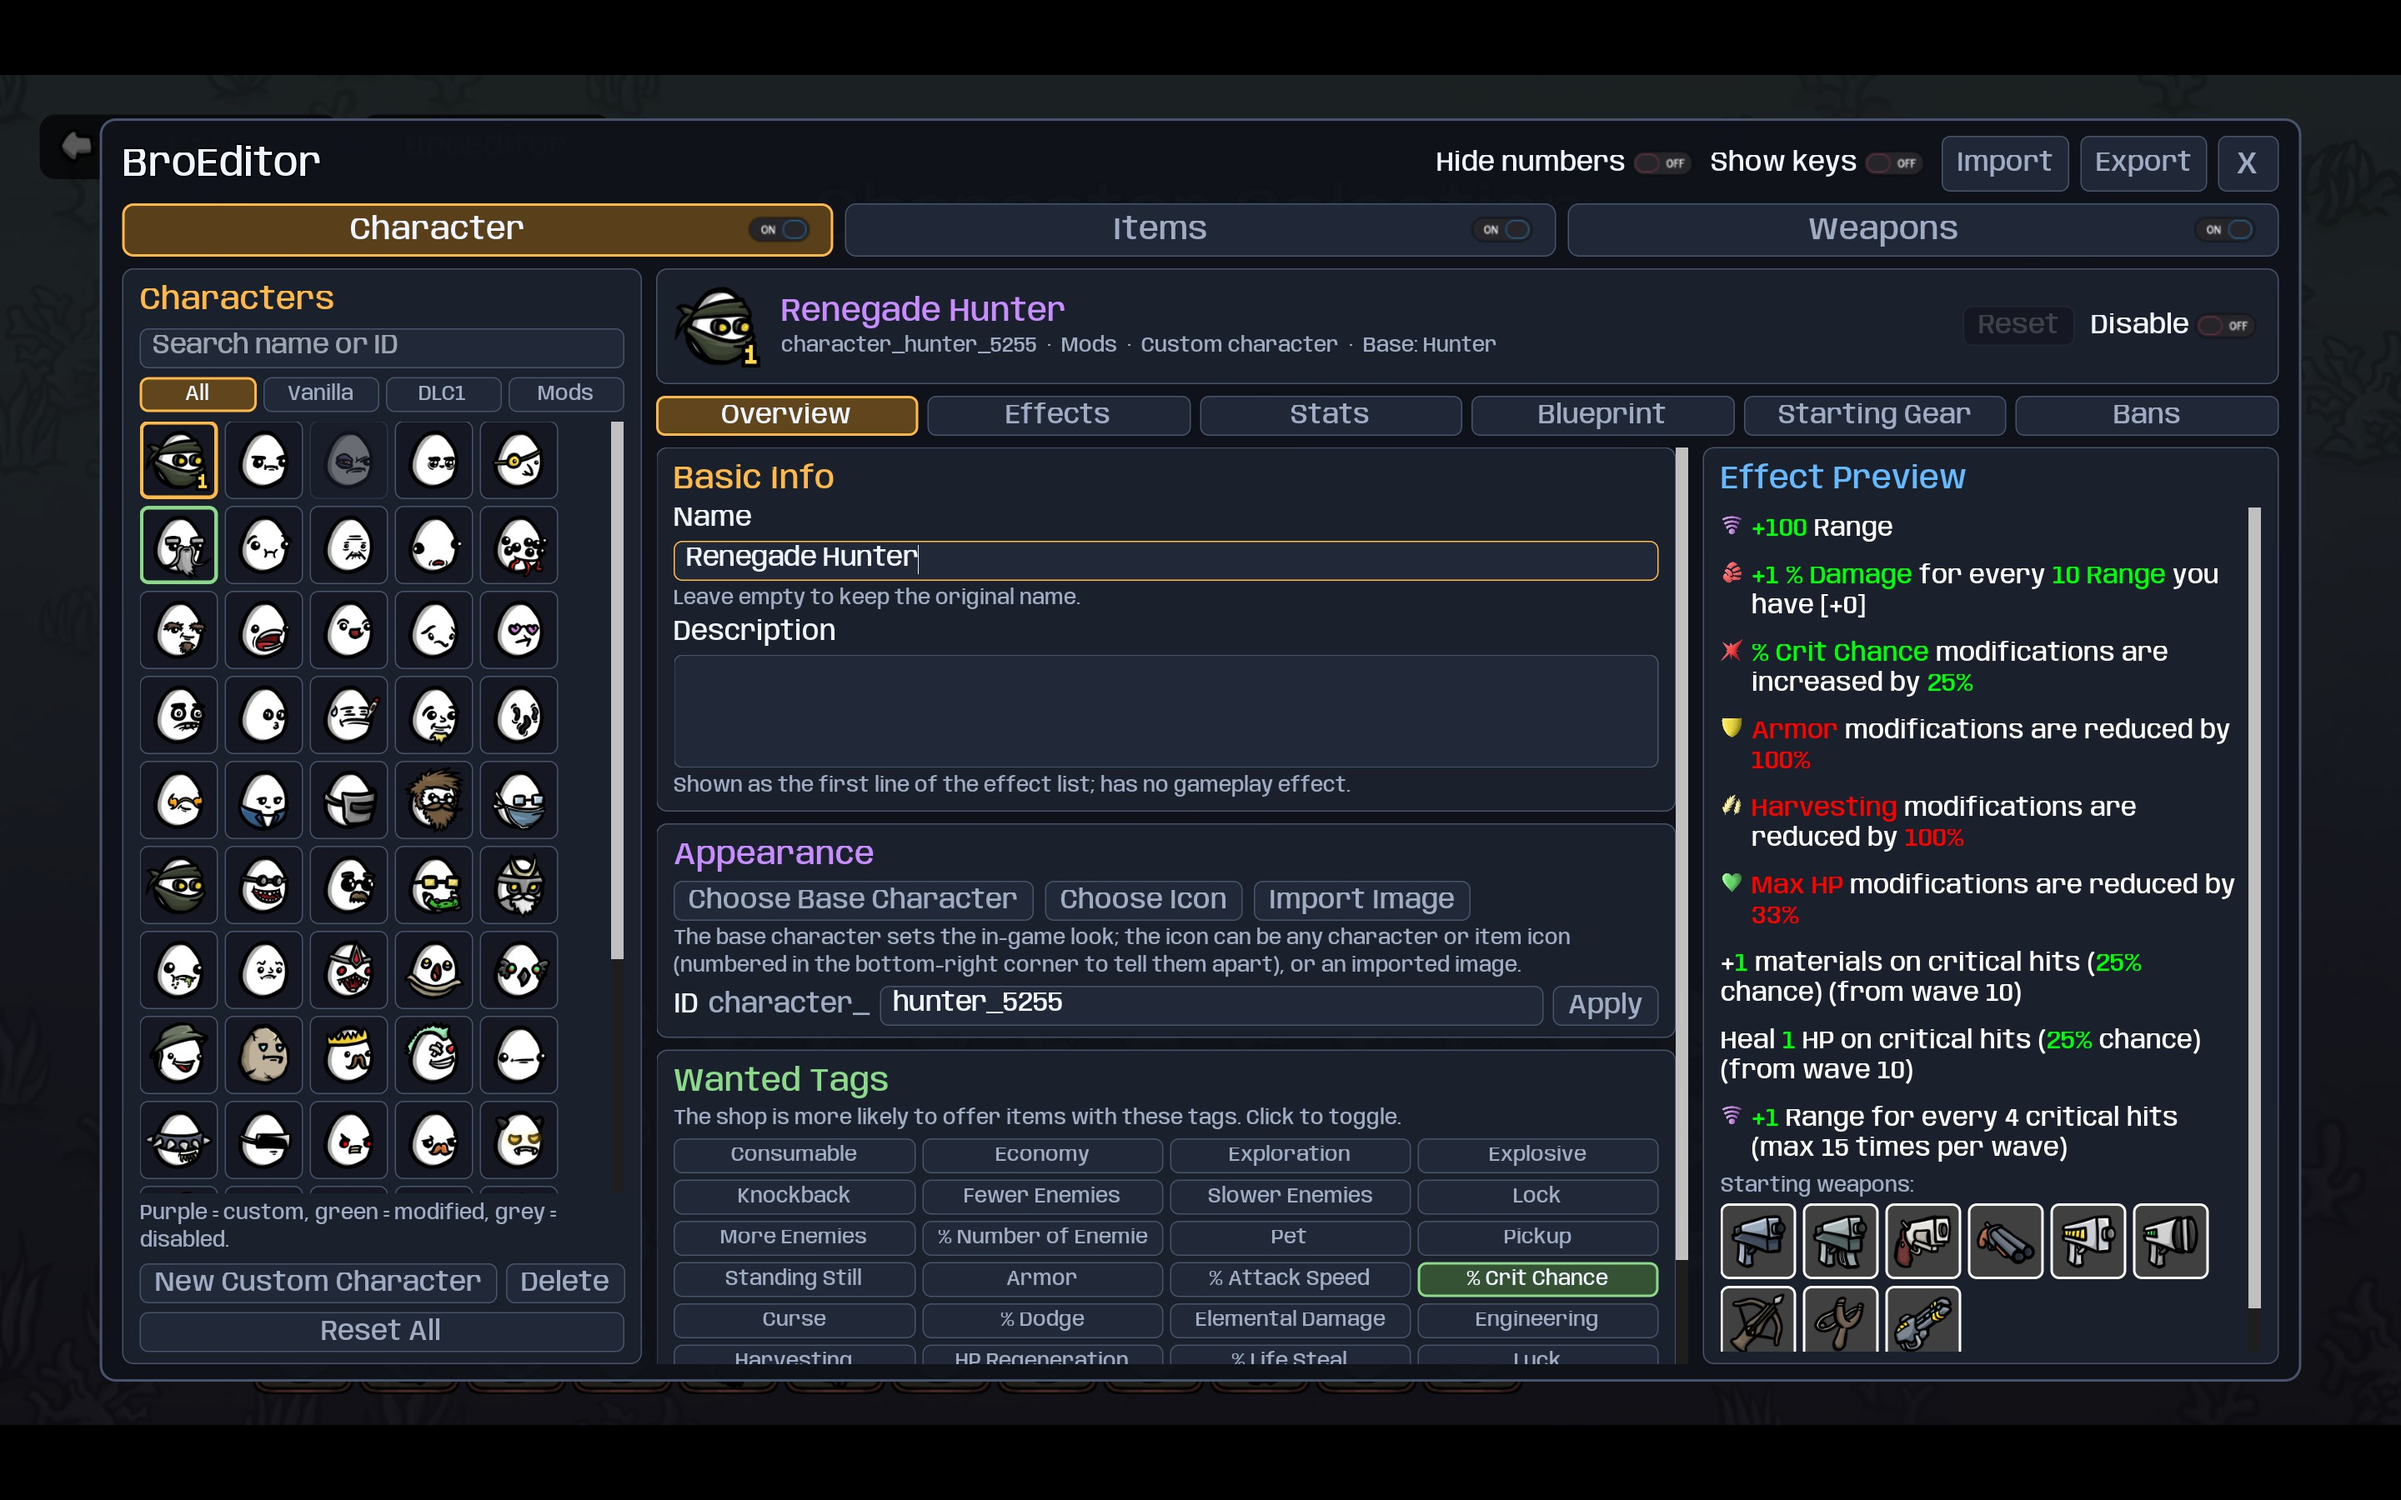
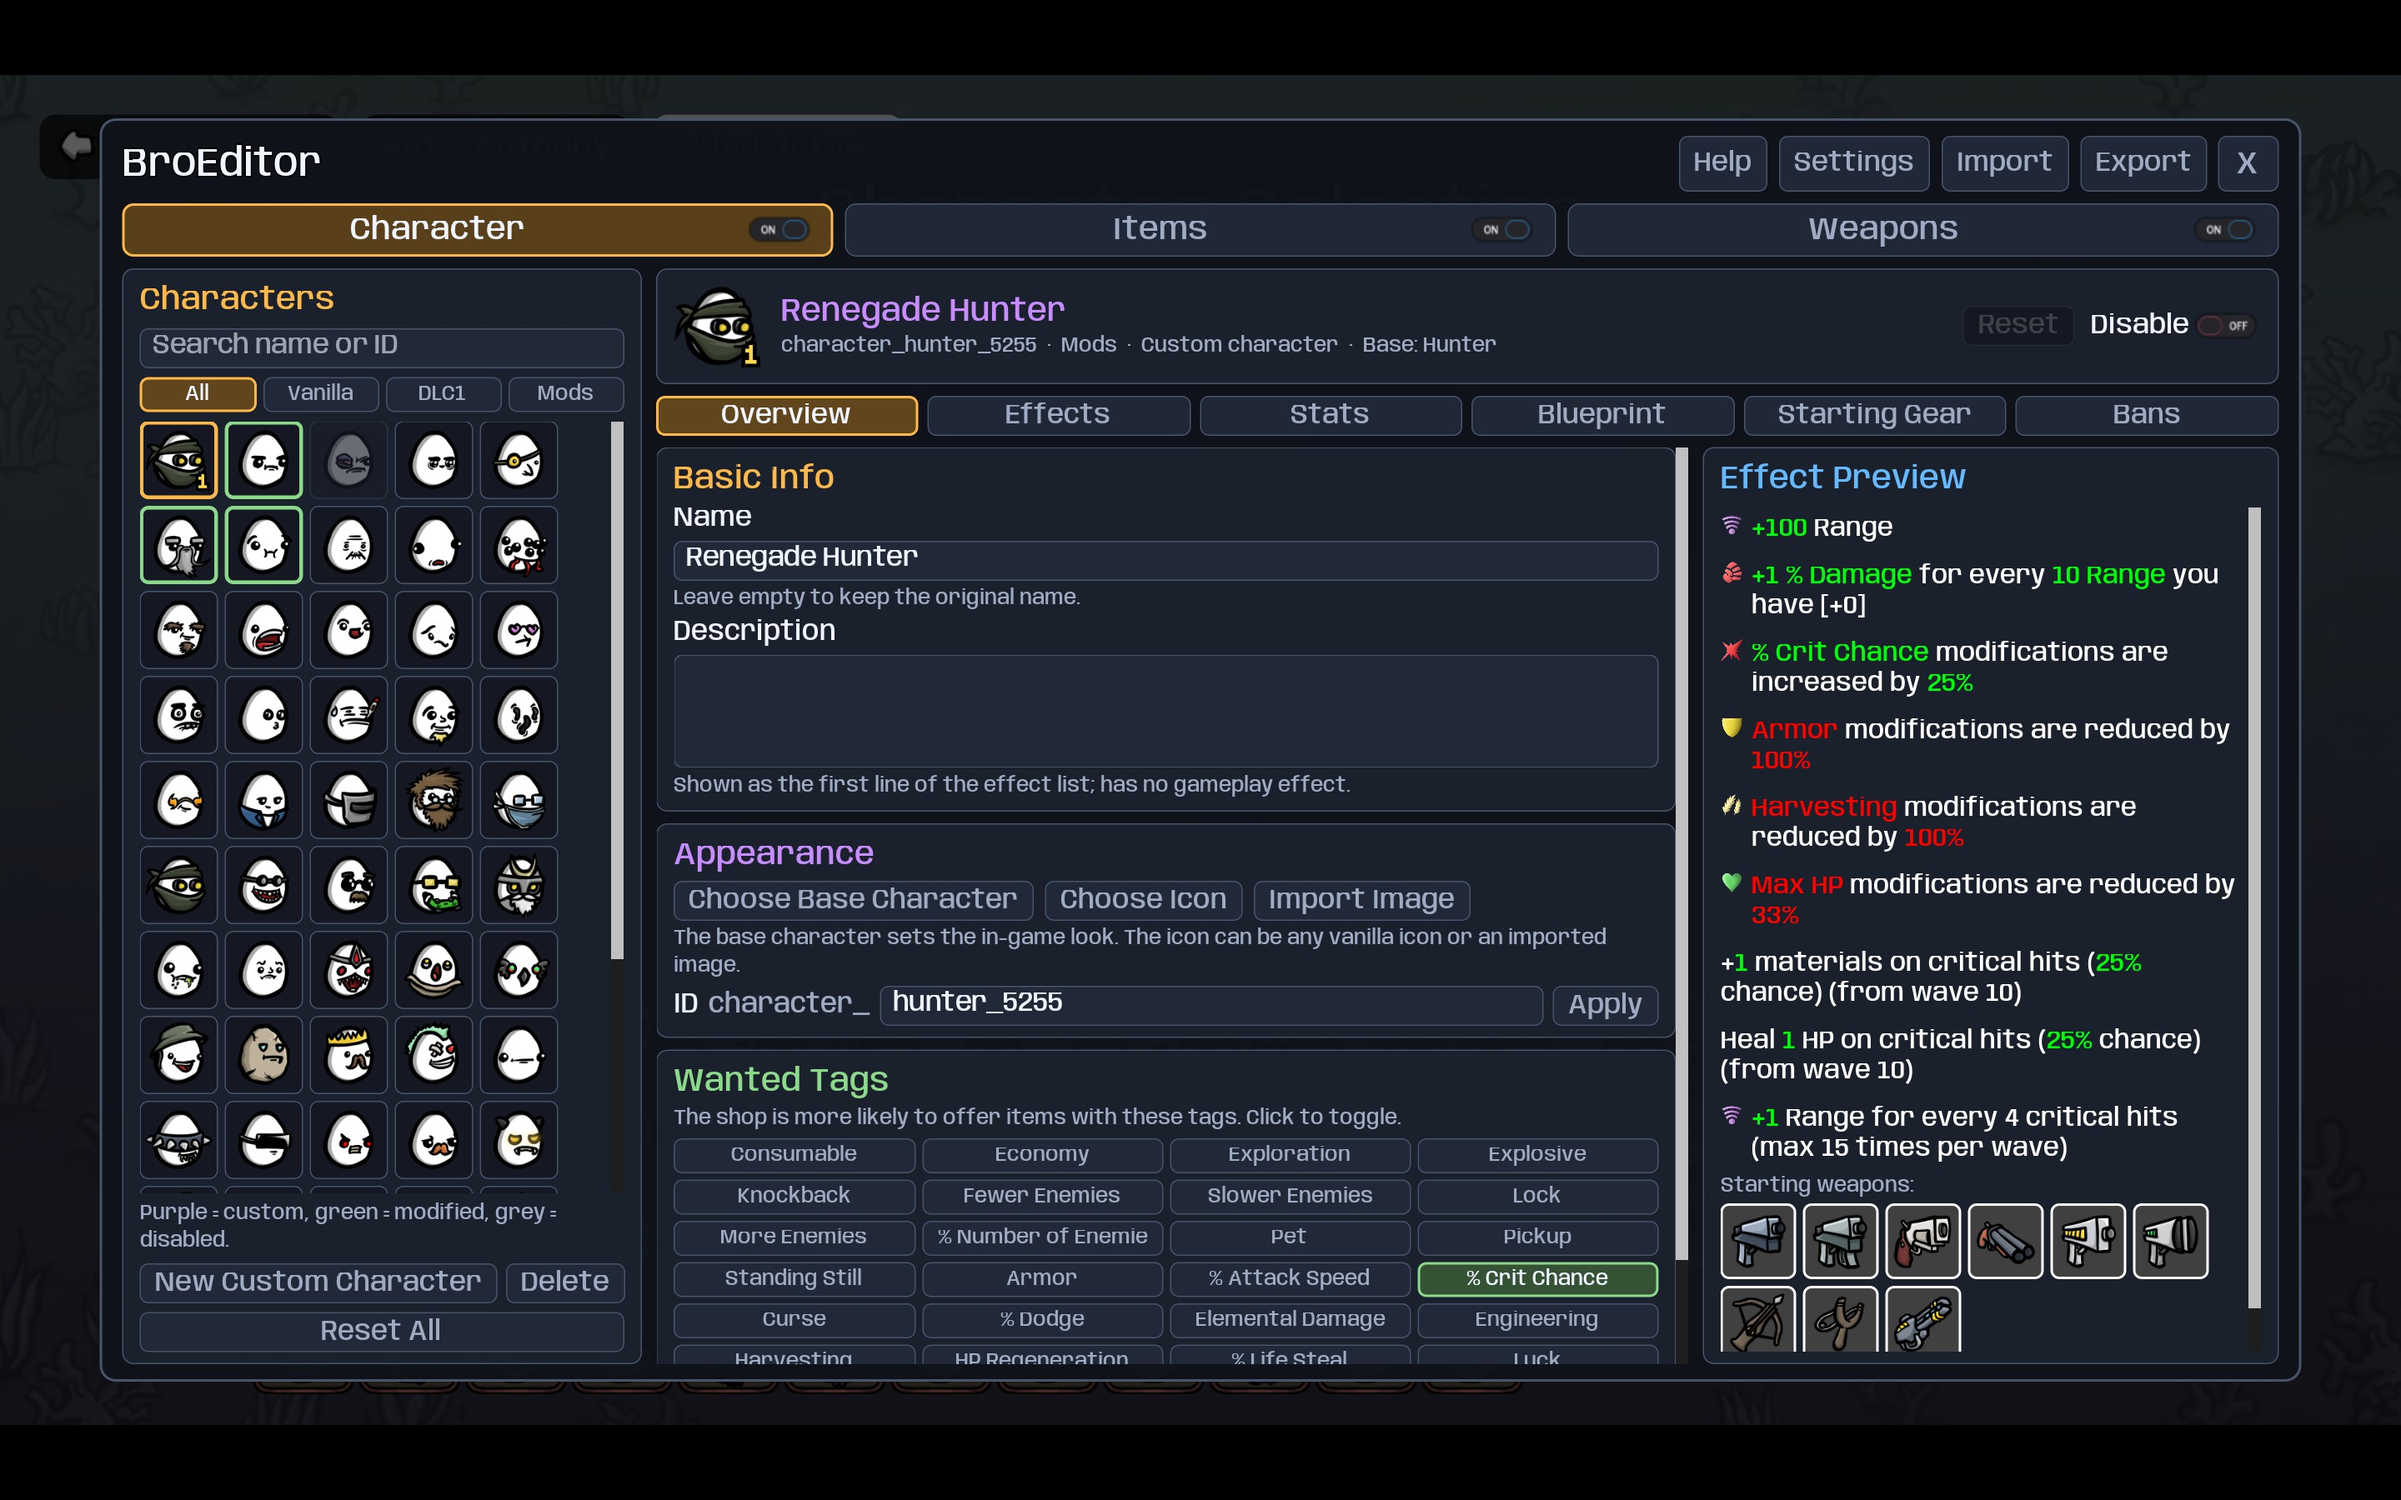
update README and screenshots

diff --git a/README.md b/README.md
@@ -11,7 +11,7 @@ A collection of mods for [Brotato](https://store.steampowered.com/app/1942280/Br
 | [Cursed & Double Sided Upgrades](Mojimoon-DoubleSidedUpgrades) | Customize your upgrades with positive and negative effects, or curses. | [Link](https://steamcommunity.com/sharedfiles/filedetails/?id=3671945570) | 1.2.5 <br> (20260305) |
 | [One Item to Rule Them All v2](Mojimoon-OneItemToRuleThemAllv2) | Replace all items in shops and crates with your chosen items. | [Link](https://steamcommunity.com/sharedfiles/filedetails/?id=3808638762) | 2.1.0 <br> (20261001) |
 | [Brotato: Auto-Anthonyology](Mojimoon-AutoAnthony) | Every run, brand-new items, weapons and characters. | [Link](https://steamcommunity.com/sharedfiles/filedetails/?id=3671094202) | 1.8.6 <br> (20261011) |
-| [BroEditor](Mojimoon-BroEditor) | Edit any character, item or weapon, or create your own, all with in-game visual editor. | [Link](https://steamcommunity.com/sharedfiles/filedetails/?id=3817655214) | 1.0.0 <br> (20261011) |
+| [BroEditor](Mojimoon-BroEditor) | Edit any character, item or weapon, or create your own, all with in-game visual editor. | [Link](https://steamcommunity.com/sharedfiles/filedetails/?id=3817655214) | 1.4.0 <br> (20261013) |
 
 ---
 
@@ -24,4 +24,4 @@ A collection of mods for [Brotato](https://store.steampowered.com/app/1942280/Br
 | [诅咒和双面升级](Mojimoon-DoubleSidedUpgrades) | 引入正面和负面效果或诅咒，让升级更有趣。 | [链接](https://steamcommunity.com/sharedfiles/filedetails/?id=3671945570) | 1.2.5 <br> (20260305) |
 | [假如所有道具变成](Mojimoon-OneItemToRuleThemAllv2) | 假如所有道具变成同一个…… | [链接](https://steamcommunity.com/sharedfiles/filedetails/?id=3808638762) | 2.1.0 <br> (20261001) |
 | [土豆兄弟：东尼算法](Mojimoon-AutoAnthony) | 每一局，都是全新的道具、武器和角色。 | [链接](https://steamcommunity.com/sharedfiles/filedetails/?id=3671094202) | 1.8.6 <br> (20261011) |
-| [BroEditor](Mojimoon-BroEditor) | 修改原版角色、道具、武器，或者原创一个——都能在游戏中可视化编辑。 | [链接](https://steamcommunity.com/sharedfiles/filedetails/?id=3817655214) | 1.0.0 <br> (20261011) |
+| [BroEditor](Mojimoon-BroEditor) | 修改原版角色、道具、武器，或者原创一个——都能在游戏中可视化编辑。 | [链接](https://steamcommunity.com/sharedfiles/filedetails/?id=3817655214) | 1.4.0 <br> (20261013) |
